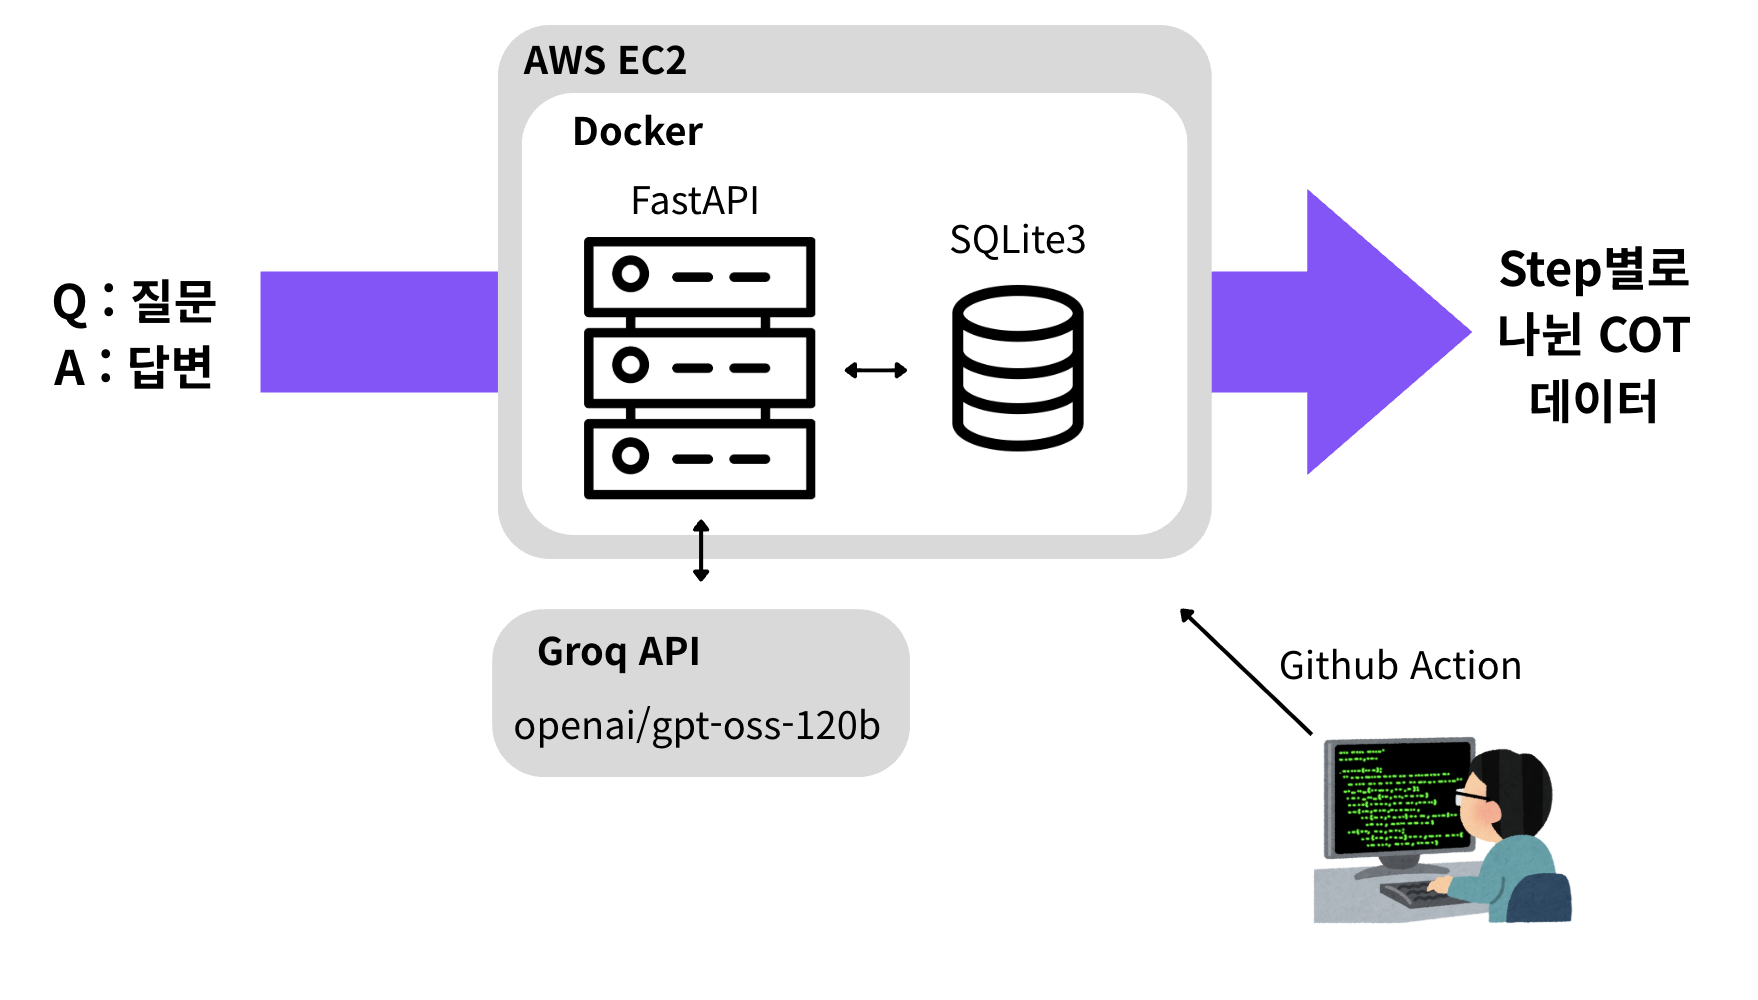
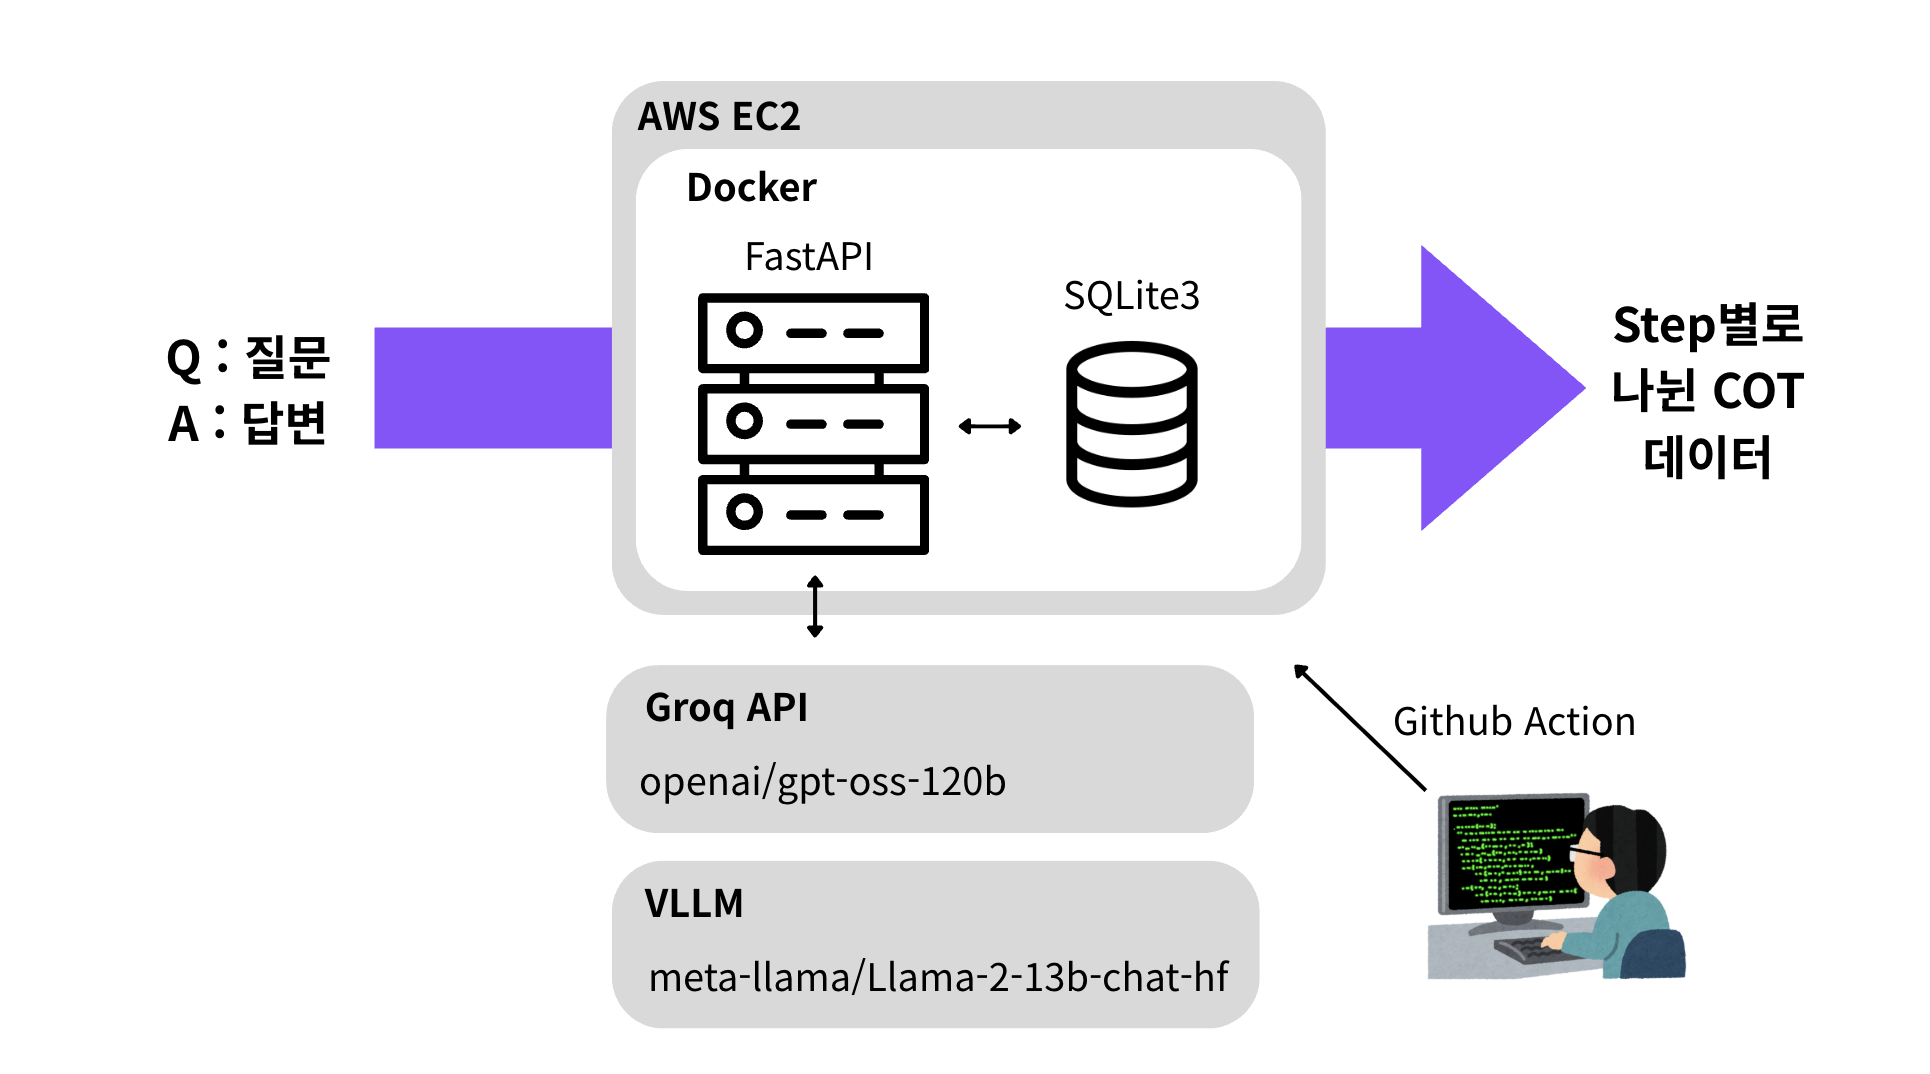
change readme

Changed region(s): [[0.0307, 0.0, 0.8908, 0.961], [0.6758, 0.186, 0.9829, 0.465], [0.6758, 0.372, 0.7986, 0.496]]

diff --git a/README.md b/README.md
@@ -4,8 +4,17 @@
 
 ![alt text](image.png)
 
-- COT는 Groq의 LLM을 이용해 자동화를 했습니다.
-- 결과는 SQLite3를 사용해 저장 및 불러오기를 했습니다.
+- COT는 LLM을 이용해 자동화를 했습니다.
+- 결과는 SQLite3를 사용해 저장 및 불러오기를 했습니다. 동일한 질문과 답변에 대해서도 결과를 비교할 수 있게 모델ID와 프롬프트ID를 같이 저장했습니다.
+- LLM을 호출하는 방식은 크게 직접 GPU 인스턴스를 사용해 VLLM에서 직접 호출하는 방식과 토큰 수만큼 비용이 발생하는 GroqAPI를 사용했습니다.
+
+
+>동일 모델 (GPT OSS 20B 128k) 기준 비용 비교  
+**Groq** : Input 10M tokens/\$1 Output 2M tokens/\$1   
+**RunPod** : \$1.74/ hour = \$1250/month.  
+input output 토큰을 1:1이라 가정시 10M당 \$6 발생
+1250 / 6 * 10M ≒ 2B   
+**처리량이 2B tokens를 넘길 경우 RunPod 운용이 더 유리 그 전에는 Groq이 유리**
 
 예시 input
 ```json
@@ -107,10 +116,10 @@ docker run -d -p 8000:8000 qa2cot
 ## 기술 스택
 - Python 3.10 : 메인 개발 언어
 - FastAPI : 백엔드 서버 API
-- LangChain + ChatGroq : LLM
+- LangChain, ChatGroq, vLLM : LLM
 - Docker : 환경
 - SQLite3 : DB
-- AWS Cloud : 클라우드 인프라
+- AWS Cloud, RunPod : 클라우드 인프라
 - GitHub Actions : DevOps
 
 ---
